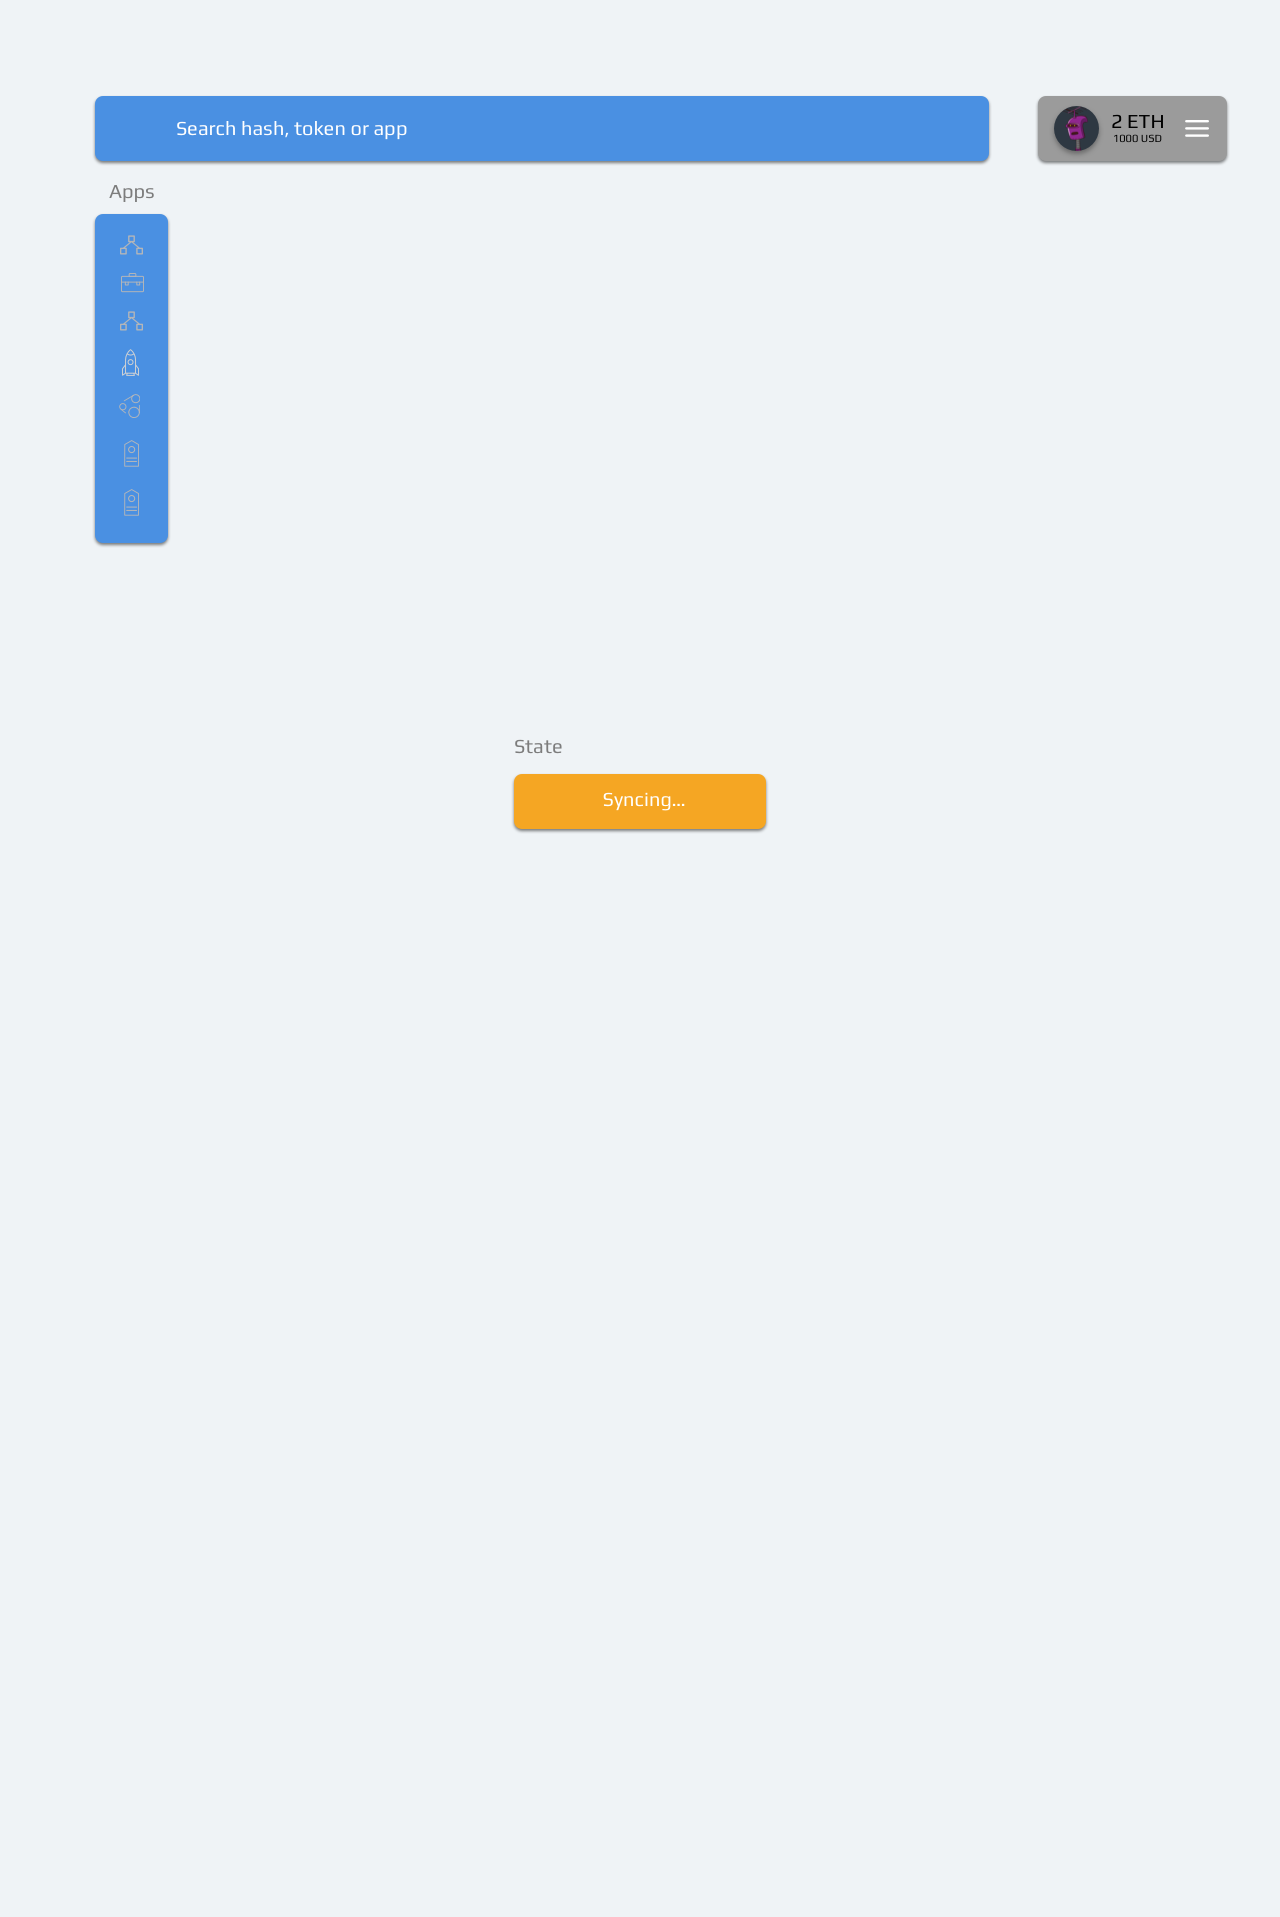
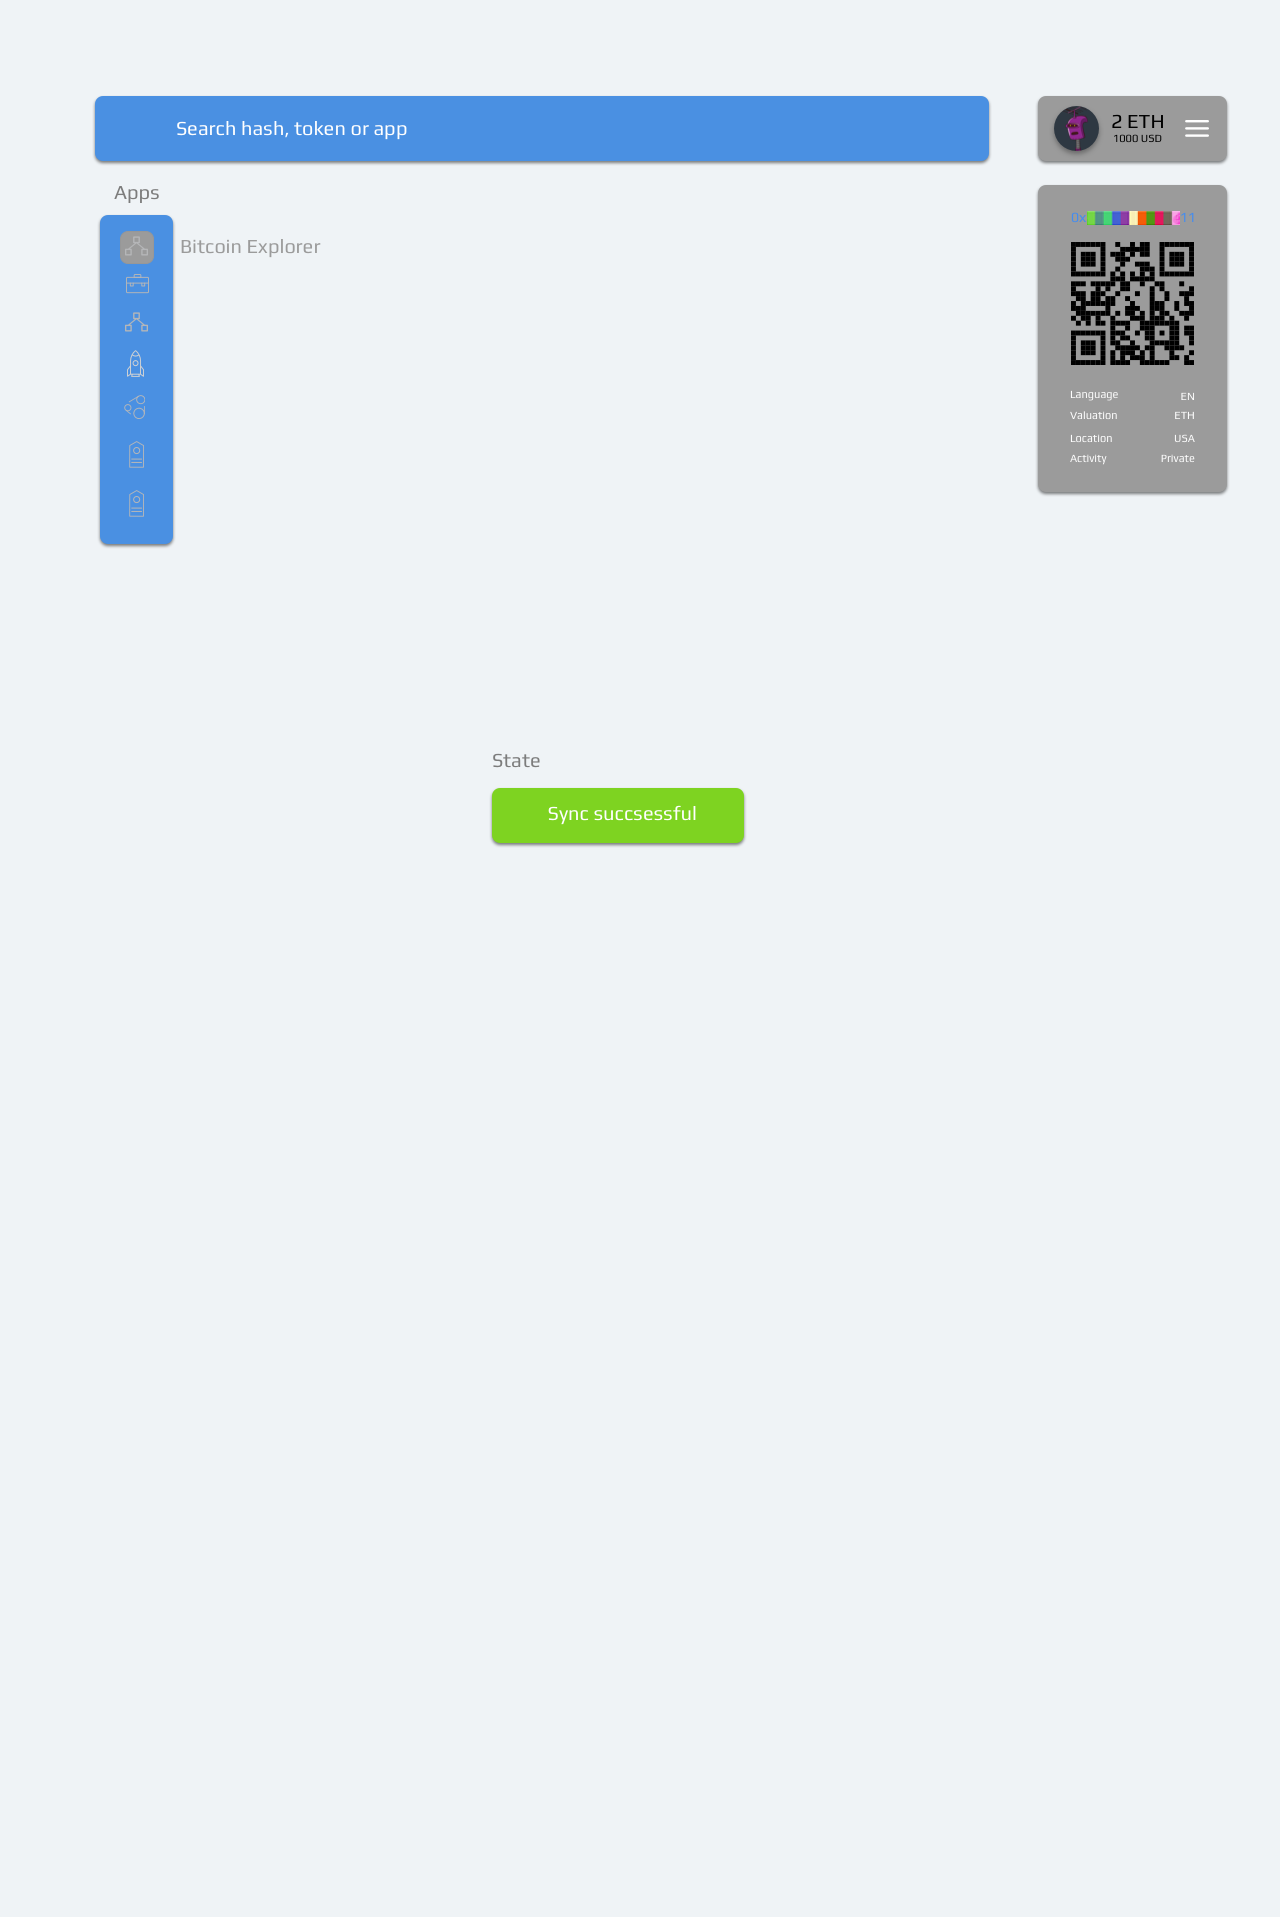
update shell (multi ardboards)

Changed region(s): [[0.8125, 0.0923, 0.9688, 0.277], [0.375, 0.3693, 0.625, 0.4617], [0.0625, 0.0923, 0.1562, 0.277]]

diff --git a/design/Shell-boards.md b/design/Shell-boards.md
@@ -2,6 +2,16 @@
 
 This is an autogenerated file showing all the artboards. Do not edit it directly.
 
+## Shell context menu
+
+![Shell context menu](./.exportedArtboards/Shell/Shell%20context%20menu.png)
+
+
+## Shell state
+
+![Shell state](./.exportedArtboards/Shell/Shell%20state.png)
+
+
 ## Shell
 
 ![Shell](./.exportedArtboards/Shell/Shell.png)
